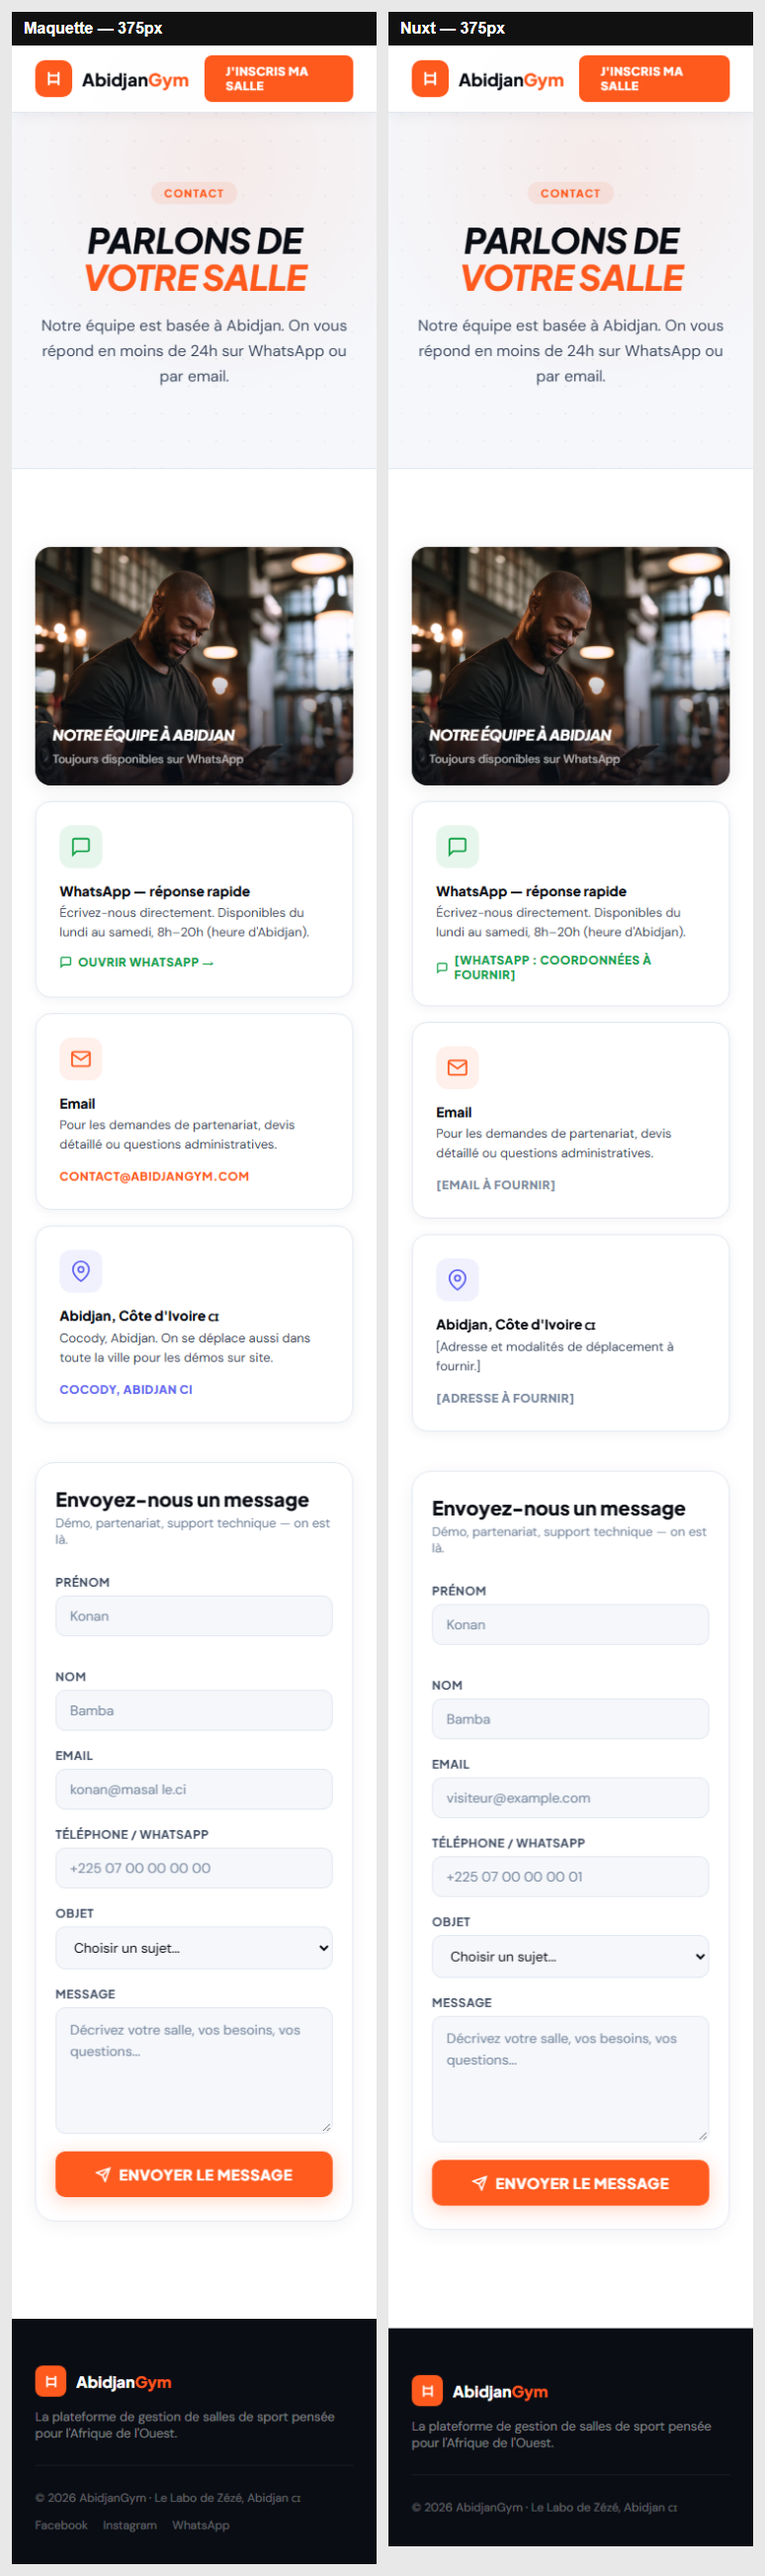
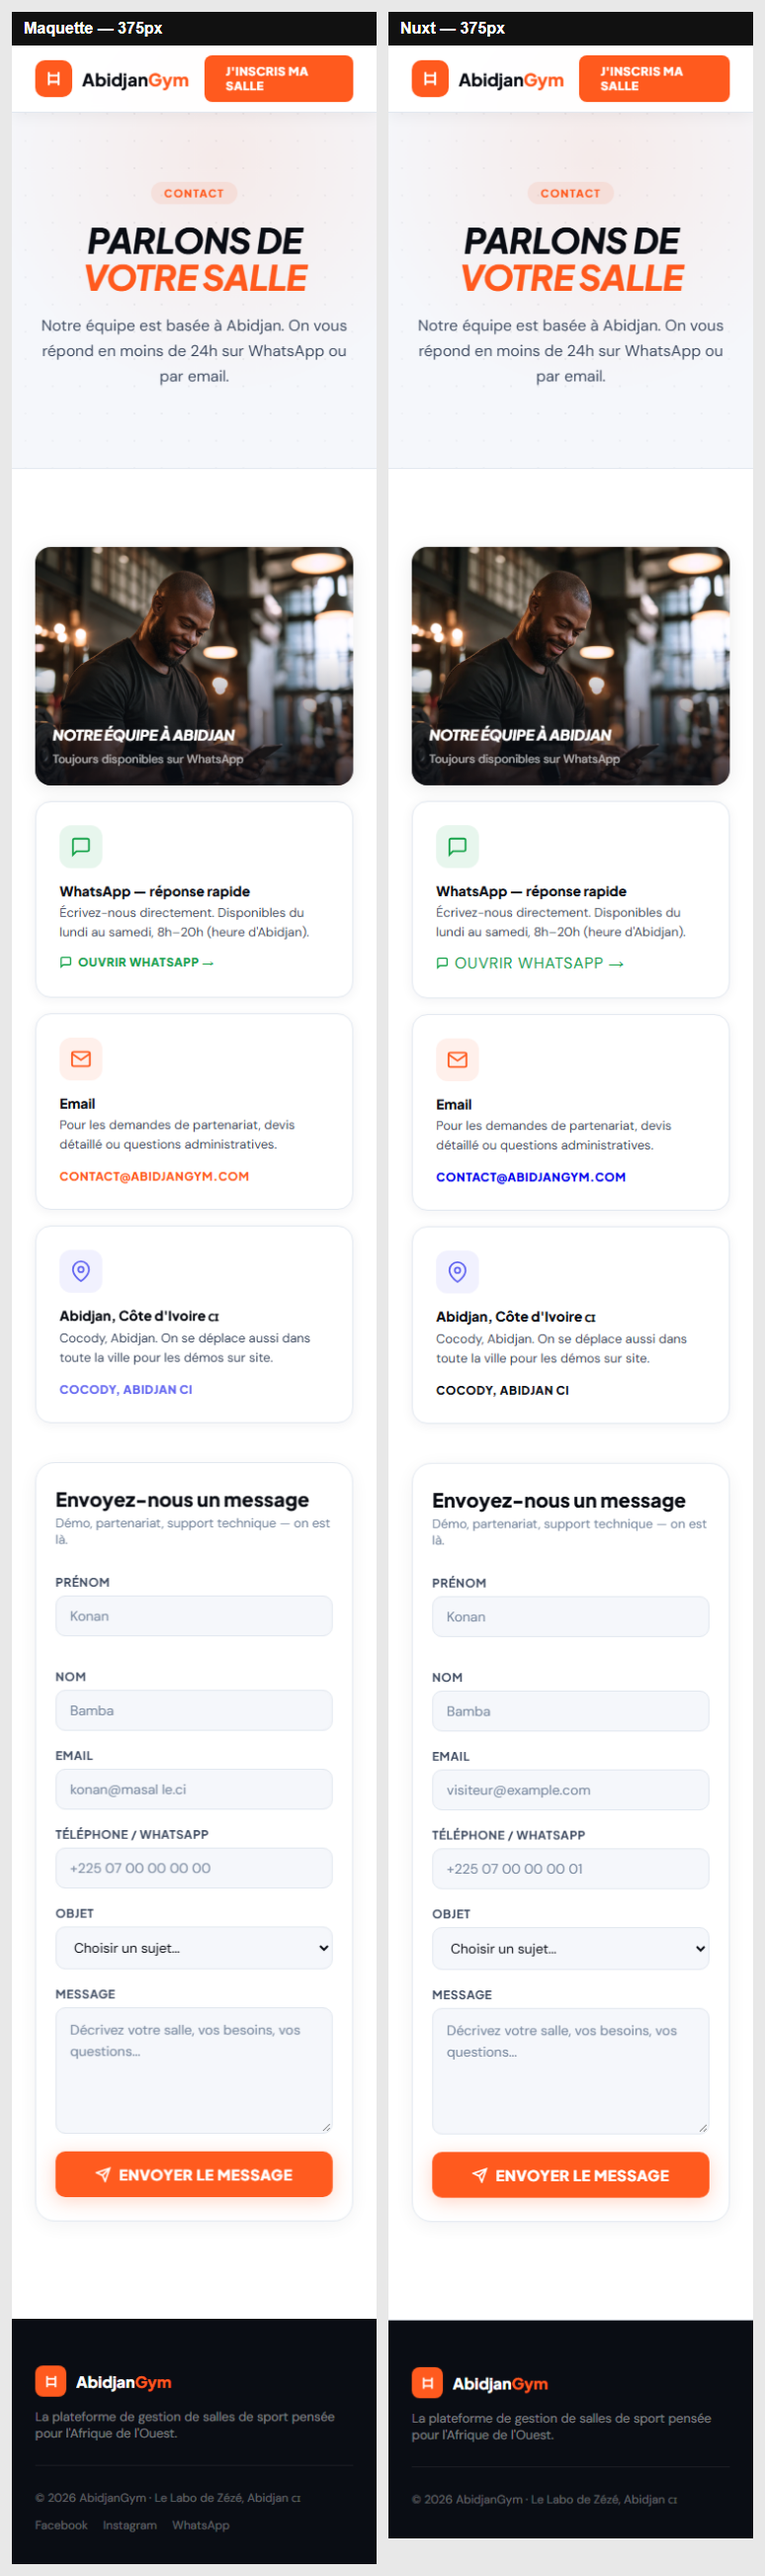
[A] #37 Appliquer les retours de la PR #61
Closes #37

## Résumé
Rétablit le message de succès exact de la maquette, confirme les coordonnées officielles de la page Contact et garde le bouton WhatsApp désactivé tant que le numéro officiel n’est pas fourni. Supprime également les avertissements lint signalés et actualise les captures de comparaison.

## Comment tester
1. Dans `frontend/`, exécuter `npm run lint`, `npm run test` et `npm run generate`.
2. Le mock Prism renvoie 201 pour un message valide et 422 pour un email/téléphone non conforme.
3. Vérifier les comparatifs de `frontend/docs/visual-qa/issue37/` aux largeurs 1280 et 375 px.

## Definition of Done
- [x] Retours fonctionnels de la relecture appliqués
- [x] Tests et génération statique réussis
- [x] Aucun secret ni donnée réelle
- [x] Captures maquette/Nuxt actualisées
- [x] Textes visibles en français et coordonnées confirmées reprises à l’identique

## Questions [À FOURNIR]
- Numéro WhatsApp officiel (#13) pour activer le bouton.
- Liens officiels des comptes sociaux.

diff --git a/frontend/content/contact-body.html b/frontend/content/contact-body.html
@@ -204,8 +204,8 @@
           </div>
           <div class="success-title">Message envoyé !</div>
           <p class="success-sub">
-            Merci, votre message a bien été envoyé. Notre équipe vous répond en
-            moins de 24 h.
+            Merci, on vous revient dans les 24h. Pour une réponse plus rapide,
+            écrivez-nous directement sur <strong>WhatsApp</strong>.
           </p>
         </div>
       </div>
@@ -254,7 +254,14 @@
             Écrivez-nous directement. Disponibles du lundi au samedi, 8h–20h
             (heure d'Abidjan).
           </p>
-          <span class="info-link" style="color: var(--ok)" aria-disabled="true">
+          <!-- [À FOURNIR] Numéro WhatsApp officiel (#13). -->
+          <button
+            class="info-link contact-whatsapp-disabled"
+            type="button"
+            style="color: var(--ok)"
+            disabled
+            aria-disabled="true"
+          >
             <svg
               width="13"
               height="13"
@@ -267,8 +274,8 @@
                 d="M21 15a2 2 0 0 1-2 2H7l-4 4V5a2 2 0 0 1 2-2h14a2 2 0 0 1 2 2z"
               />
             </svg>
-            [WhatsApp : coordonnées à fournir]
-          </span>
+            Ouvrir WhatsApp →
+          </button>
         </div>
 
         <!-- Email -->
@@ -297,7 +304,9 @@
             Pour les demandes de partenariat, devis détaillé ou questions
             administratives.
           </p>
-          <span class="info-link contact-placeholder">[Email à fournir]</span>
+          <a class="info-link" href="mailto:contact@abidjangym.com">
+            contact@abidjangym.com
+          </a>
         </div>
 
         <!-- Adresse -->
@@ -320,8 +329,11 @@
             </svg>
           </div>
           <h3>Abidjan, Côte d'Ivoire 🇨🇮</h3>
-          <p>[Adresse et modalités de déplacement à fournir.]</p>
-          <span class="info-link contact-placeholder">[Adresse à fournir]</span>
+          <p>
+            Cocody, Abidjan. On se déplace aussi dans toute la ville pour les
+            démos sur site.
+          </p>
+          <span class="info-link">Cocody, Abidjan CI</span>
         </div>
       </div>
     </div>

diff --git a/frontend/pages/tarifs.vue b/frontend/pages/tarifs.vue
@@ -140,7 +140,7 @@ onBeforeUnmount(() => observer?.disconnect());
         <div class="page-hero-inner">
           <div class="eyebrow reveal">Tarifs</div>
           <h1 class="page-title reveal">
-            Nos formules<br /><em>pour votre salle</em>
+            Nos formules<em class="page-title-second-line">pour votre salle</em>
           </h1>
           <p class="page-sub reveal">
             2 mois d’essai gratuit sur les formules payantes, sans carte

diff --git a/frontend/pages/contact.vue b/frontend/pages/contact.vue
@@ -172,8 +172,6 @@ async function handleSubmit(event: SubmitEvent) {
     form.hidden = true;
     const success =
       form.parentElement?.querySelector<HTMLElement>(".form-success");
-    const successMessage = success?.querySelector<HTMLElement>(".success-sub");
-    if (successMessage) successMessage.textContent = result.message;
     success?.classList.add("active");
     success?.focus();
     return;

diff --git a/frontend/assets/css/contact.css b/frontend/assets/css/contact.css
@@ -571,9 +571,13 @@
   opacity: 0.7;
   transform: none;
 }
-.contact-page .contact-placeholder {
-  color: var(--fg-3);
-  cursor: default;
+.contact-page .contact-whatsapp-disabled {
+  background: none;
+  border: 0;
+  padding: 0;
+  font: inherit;
+  opacity: 1;
+  cursor: not-allowed;
 }
 .contact-page .form-success:focus {
   outline: 3px solid var(--accent);

diff --git a/frontend/components/AppHeader.vue b/frontend/components/AppHeader.vue
@@ -24,9 +24,9 @@ const menuOpen = ref(false);
         :aria-label="menuOpen ? 'Masquer le menu' : 'Afficher le menu'"
         @click="menuOpen = !menuOpen"
       >
-        <span></span>
-        <span></span>
-        <span></span>
+        <span />
+        <span />
+        <span />
       </button>
 
       <nav

diff --git a/frontend/assets/css/public-pages.css b/frontend/assets/css/public-pages.css
@@ -59,6 +59,9 @@
   color: var(--accent);
   font-style: italic;
 }
+.tarifs-page .page-title-second-line {
+  display: block;
+}
 .page-sub {
   font-size: 16px;
   color: var(--fg-2);
